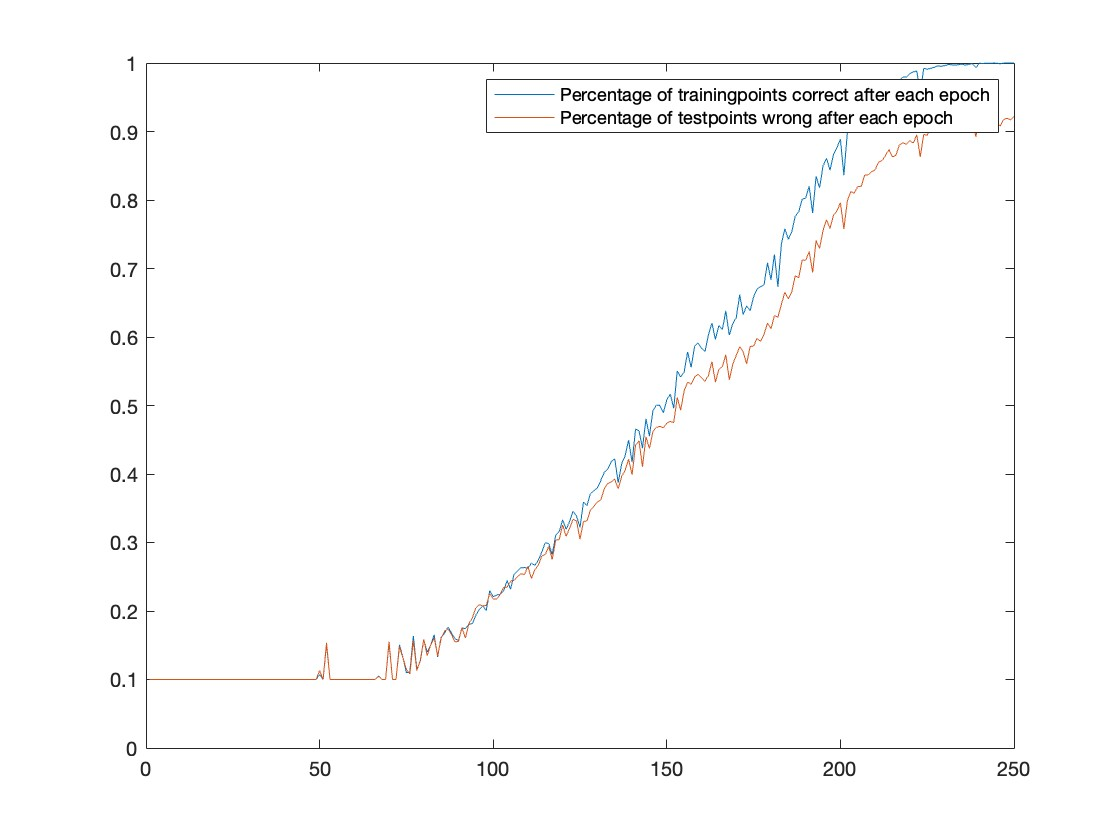
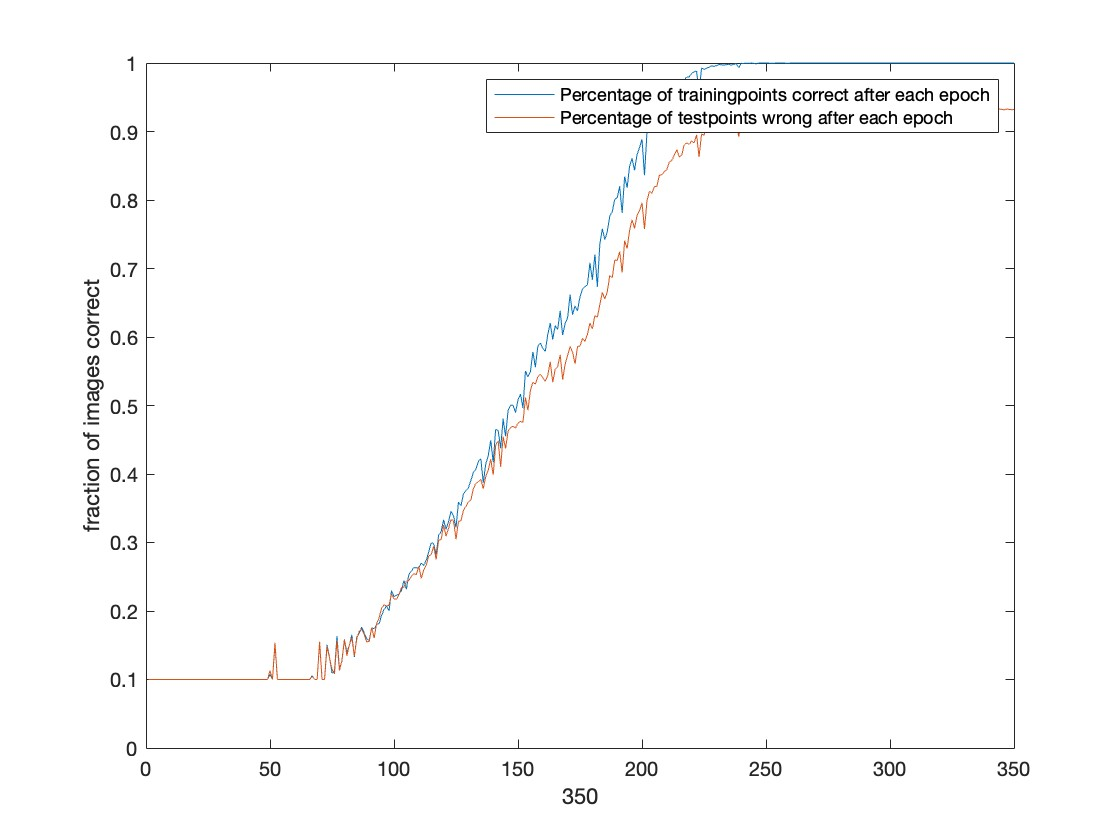
better results

diff --git a/handwritten-digits/model.m b/handwritten-digits/model.m
@@ -31,7 +31,7 @@ yhat = @(imagevector) softmax(zout(imagevector));
 
 %% GRADIENT DESCENT
 alpha = 0.1;
-epochs = 250;
+epochs = 350;
 epochsize = trainsetsize;
 
 % I will divide the dataset into K smaller datasets to implement stochastic
@@ -134,6 +134,8 @@ plot(correcttraining)
 hold on
 plot(correcttest)
 legend('Percentage of trainingpoints correct after each epoch','Percentage of testpoints wrong after each epoch' )
+xlabel(epochs)
+ylabel('fraction of images correct')
 hold off
 
 
